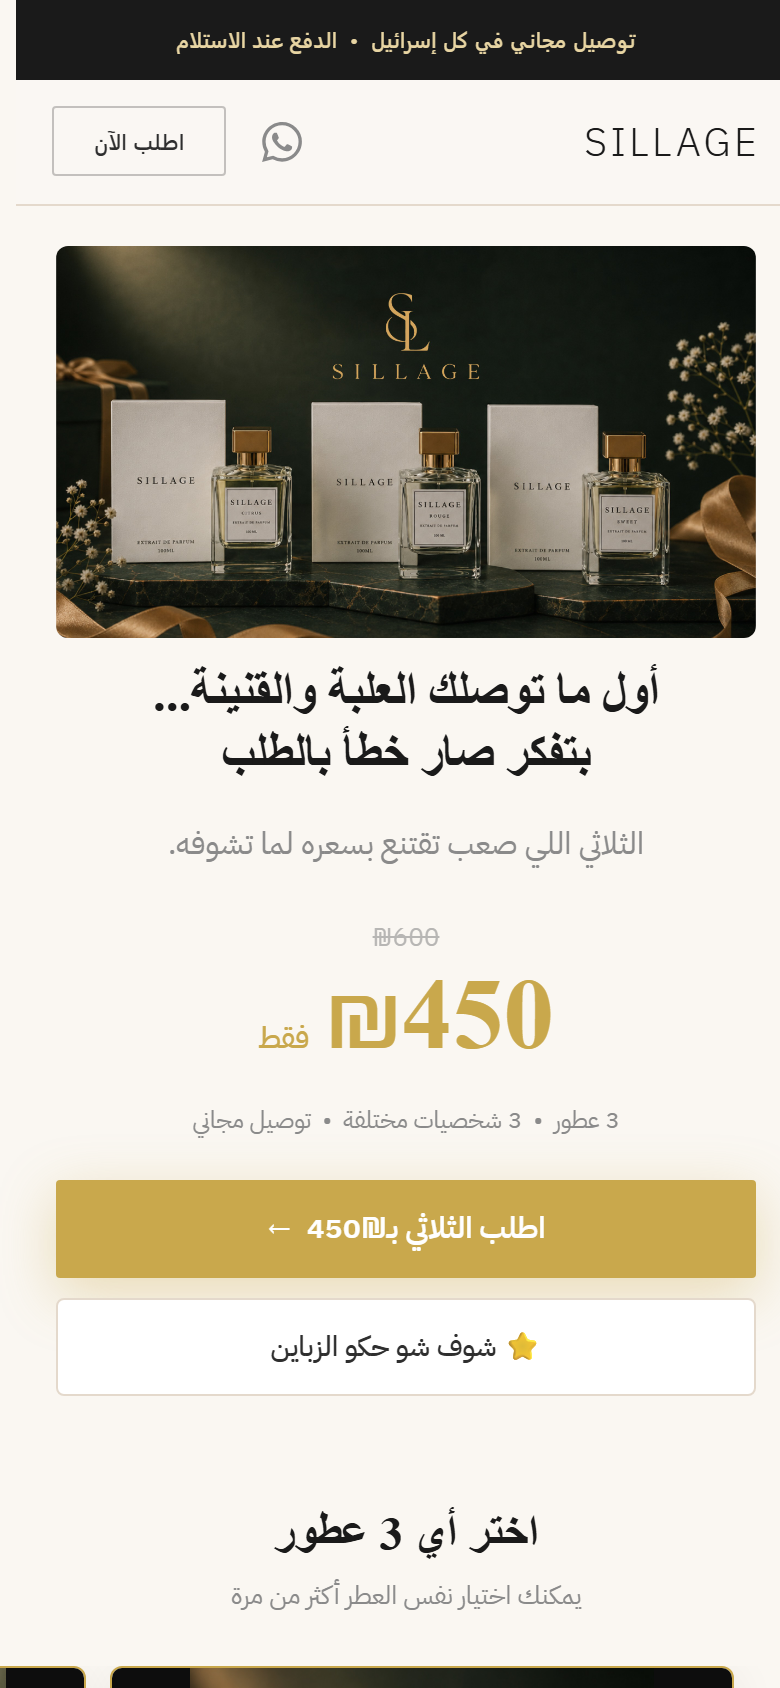
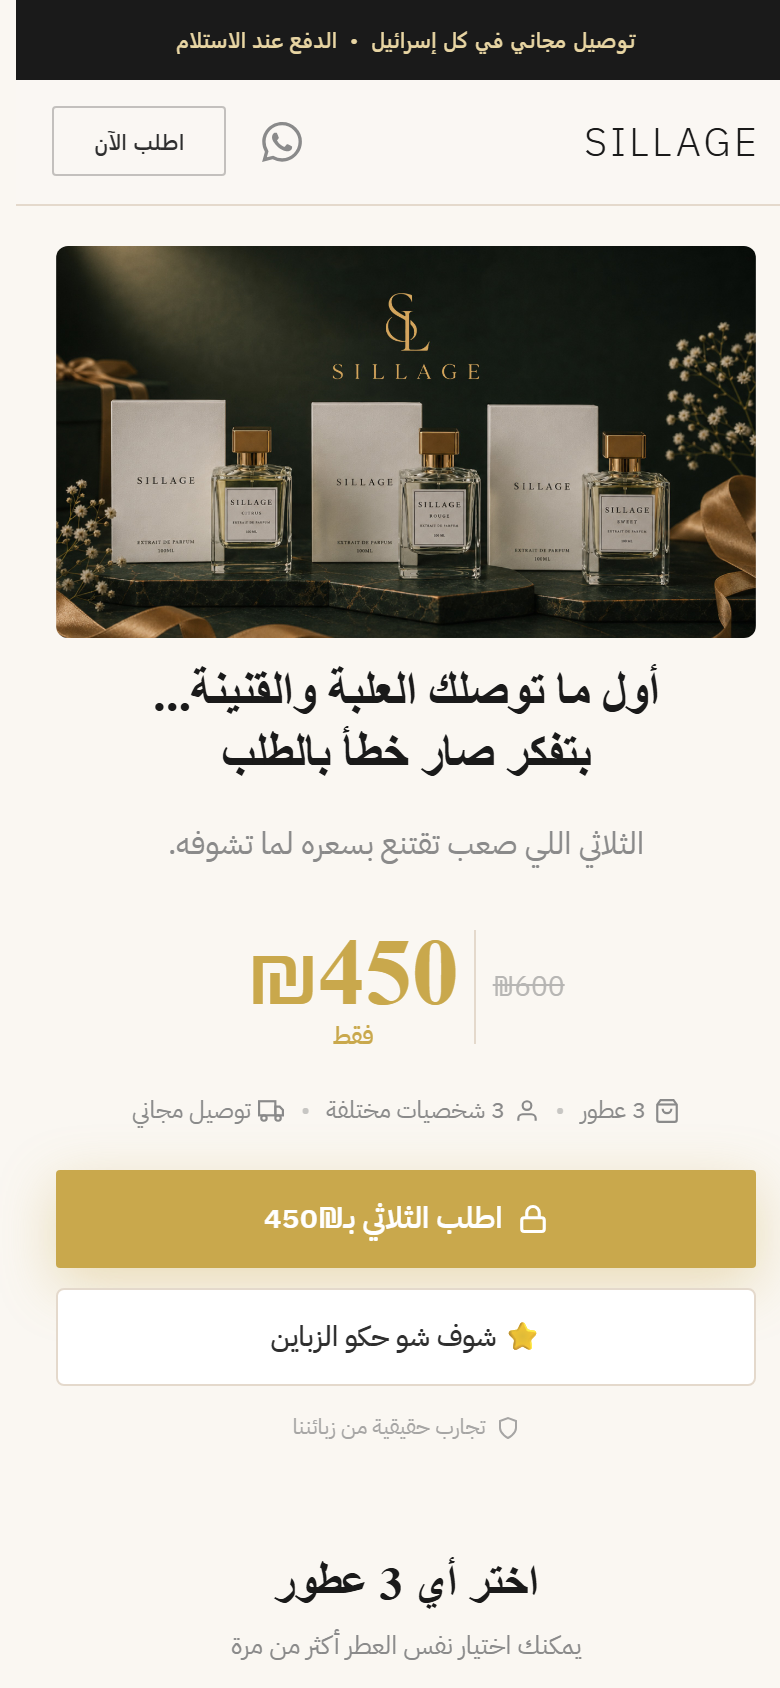
Optimize hero section and pricing layout

Changed region(s): [[0.0615, 0.5545, 0.9846, 0.8626], [0.0, 0.8934, 0.9538, 1.0]]

diff --git a/ar/index.html b/ar/index.html
@@ -72,23 +72,35 @@
     }
     .hero-price-block {
       display: flex;
+      flex-direction: row;
+      align-items: stretch;
+      justify-content: center;
+      margin-bottom: 18px;
+    }
+    .hero-price-old {
+      display: flex;
+      align-items: center;
+      justify-content: center;
+      padding: 4px 20px 4px 12px;
+    }
+    .hero-price-divider {
+      width: 1px;
+      background: var(--beige);
+      margin: 6px 0;
+    }
+    .hero-price-new {
+      display: flex;
       flex-direction: column;
       align-items: center;
-      gap: 2px;
-      margin-bottom: 18px;
+      justify-content: center;
+      padding: 4px 12px 4px 20px;
     }
     .hero-was {
       font-family: 'IBM Plex Sans Arabic', sans-serif;
-      font-size: clamp(13px, 1.8vw, 17px);
+      font-size: clamp(14px, 2vw, 20px);
       color: var(--muted);
       text-decoration: line-through;
       opacity: 0.6;
-    }
-    .hero-price-row {
-      display: flex;
-      align-items: baseline;
-      gap: 8px;
-      justify-content: center;
     }
     .hero-price {
       font-family: 'Noto Serif Arabic', serif;
@@ -99,18 +111,39 @@
     }
     .hero-price-only {
       font-family: 'IBM Plex Sans Arabic', sans-serif;
-      font-size: clamp(15px, 2.2vw, 20px);
+      font-size: clamp(12px, 1.6vw, 15px);
       font-weight: 500;
       color: var(--gold);
+      margin-top: 2px;
       line-height: 1;
     }
     .hero-trust {
+      display: flex;
+      align-items: center;
+      justify-content: center;
+      gap: 8px;
+      flex-wrap: wrap;
       font-family: 'IBM Plex Sans Arabic', sans-serif;
       font-size: 12px;
       color: var(--muted);
       margin-bottom: 20px;
-      text-align: center;
-      letter-spacing: 0.01em;
+    }
+    .hero-trust-item {
+      display: inline-flex;
+      align-items: center;
+      gap: 4px;
+    }
+    .hero-trust-sep { opacity: 0.45; }
+    .hero-footer-trust {
+      display: flex;
+      align-items: center;
+      justify-content: center;
+      gap: 5px;
+      font-family: 'IBM Plex Sans Arabic', sans-serif;
+      font-size: 11px;
+      color: var(--muted);
+      margin-top: 12px;
+      opacity: 0.75;
     }
     .hero-reviews-cta {
       display: block;
@@ -533,7 +566,9 @@
       .selection-section { padding: 32px 16px; }
       .hero-headline { font-size: clamp(22px, 6.5vw, 36px); line-height: 1.2; }
       .hero-sub { font-size: clamp(13px, 4vw, 18px); }
-      .hero-price { font-size: clamp(50px, 13vw, 72px); }
+      .hero-price { font-size: clamp(46px, 12vw, 68px); }
+      .hero-price-old { padding: 4px 14px 4px 8px; }
+      .hero-price-new { padding: 4px 8px 4px 14px; }
       .review-card { flex: 0 0 240px; }
     }
   </style>
@@ -570,17 +605,40 @@
       <h1 class="hero-headline">أول ما توصلك العلبة والقنينة...<br/>بتفكر صار خطأ بالطلب</h1>
       <p class="hero-sub">الثلاثي اللي صعب تقتنع بسعره لما تشوفه.</p>
       <div class="hero-price-block">
-        <span class="hero-was">₪600</span>
-        <div class="hero-price-row">
+        <div class="hero-price-old">
+          <span class="hero-was">₪600</span>
+        </div>
+        <div class="hero-price-divider"></div>
+        <div class="hero-price-new">
           <span class="hero-price">₪450</span>
           <span class="hero-price-only">فقط</span>
         </div>
       </div>
-      <p class="hero-trust">3 عطور &nbsp;•&nbsp; 3 شخصيات مختلفة &nbsp;•&nbsp; توصيل مجاني</p>
-      <button class="btn btn-gold" onclick="handleCTA()" style="font-size:15px; padding:17px 40px; width:100%;">
-        اطلب الثلاثي بـ₪450 &nbsp;←
+      <div class="hero-trust">
+        <span class="hero-trust-item">
+          <svg width="13" height="13" viewBox="0 0 24 24" fill="none" stroke="currentColor" stroke-width="2" aria-hidden="true"><path d="M6 2L3 6v14a2 2 0 002 2h14a2 2 0 002-2V6l-3-4z"/><line x1="3" y1="6" x2="21" y2="6"/><path d="M16 10a4 4 0 01-8 0"/></svg>
+          3 عطور
+        </span>
+        <span class="hero-trust-sep">•</span>
+        <span class="hero-trust-item">
+          <svg width="13" height="13" viewBox="0 0 24 24" fill="none" stroke="currentColor" stroke-width="2" aria-hidden="true"><path d="M20 21v-2a4 4 0 00-4-4H8a4 4 0 00-4 4v2"/><circle cx="12" cy="7" r="4"/></svg>
+          3 شخصيات مختلفة
+        </span>
+        <span class="hero-trust-sep">•</span>
+        <span class="hero-trust-item">
+          <svg width="13" height="13" viewBox="0 0 24 24" fill="none" stroke="currentColor" stroke-width="2" aria-hidden="true"><rect x="1" y="3" width="15" height="13"/><polygon points="16 8 20 8 23 11 23 16 16 16 16 8"/><circle cx="5.5" cy="18.5" r="2.5"/><circle cx="18.5" cy="18.5" r="2.5"/></svg>
+          توصيل مجاني
+        </span>
+      </div>
+      <button class="btn btn-gold" onclick="handleCTA()" style="font-size:15px; padding:17px 40px; width:100%; display:flex; align-items:center; justify-content:center; gap:8px;">
+        <svg width="15" height="15" viewBox="0 0 24 24" fill="none" stroke="currentColor" stroke-width="2.5" aria-hidden="true"><rect x="3" y="11" width="18" height="11" rx="2" ry="2"/><path d="M7 11V7a5 5 0 0110 0v4"/></svg>
+        اطلب الثلاثي بـ₪450
       </button>
       <button class="hero-reviews-cta" onclick="scrollToReviews()">⭐ شوف شو حكو الزباين</button>
+      <p class="hero-footer-trust">
+        <svg width="12" height="12" viewBox="0 0 24 24" fill="none" stroke="currentColor" stroke-width="2" aria-hidden="true"><path d="M12 22s8-4 8-10V5l-8-3-8 3v7c0 6 8 10 8 10z"/></svg>
+        تجارب حقيقية من زبائننا
+      </p>
     </div>
 
     <div class="hero-visual">
